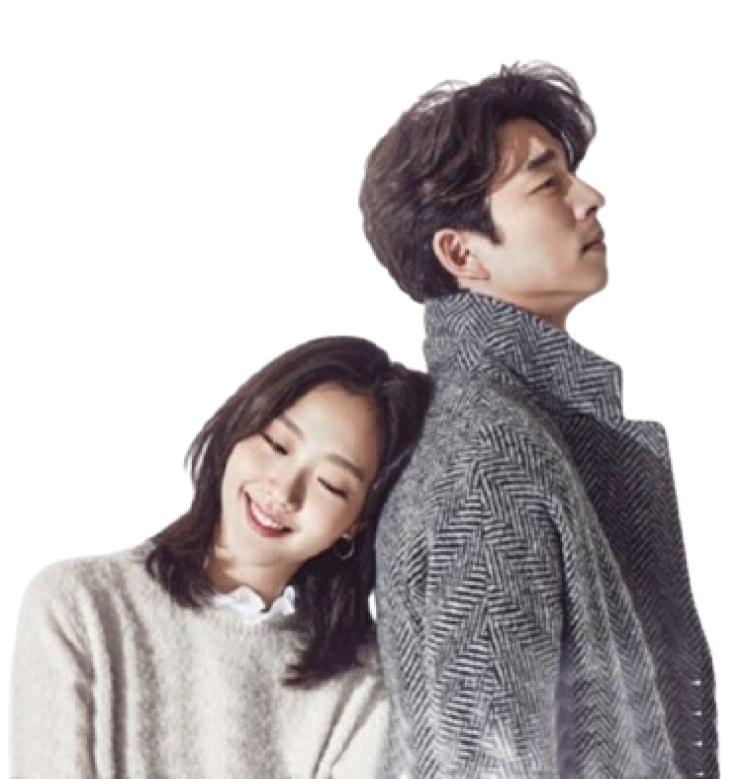
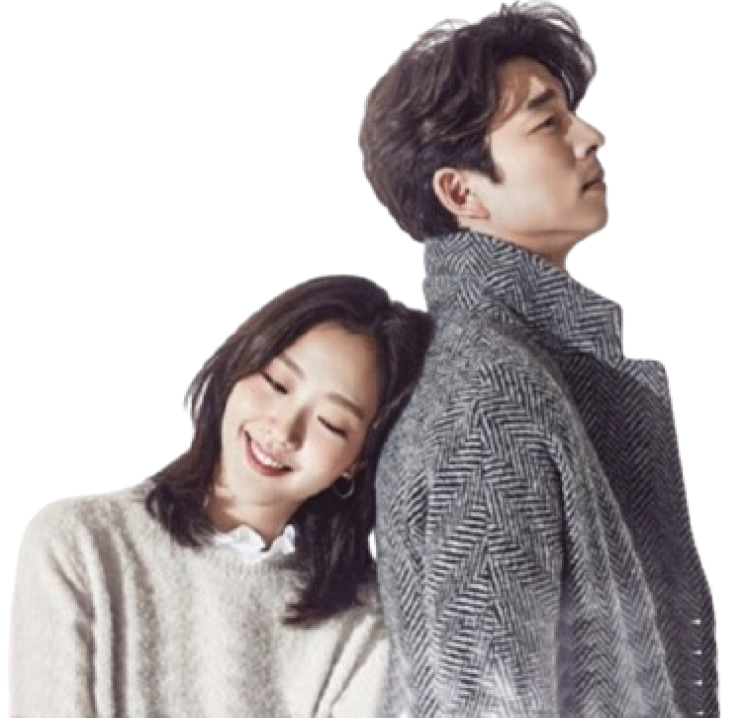
Add files via upload

Changed region(s): [[0.031, 0.0, 0.9609, 0.9805], [0.9299, 0.9499, 0.9609, 0.9805], [0.434, 0.766, 0.465, 0.7967]]

diff --git a/style-goblin.css b/style-goblin.css
@@ -79,7 +79,7 @@
 .container {
     position: relative;
     display: flex;
-    height: auto;
+    height: 100vh;
 }
 
 .title-page {
@@ -93,7 +93,6 @@
     position: absolute;
     left: 0;
     top: 0;
-
 }
 
 .title-page h1 {
@@ -124,7 +123,7 @@
 }
 
 .title-page button:hover {
-    background-color: #5a6268;
+    background-color: #fdfeff;
 }
 
 
@@ -176,7 +175,7 @@
     width: 40%;
     text-align: justify;
     position: absolute;
-    top: 300px;
+    top: 270px;
     left: 70%;
     transform: translateX(-50%);
     font-size: 1.75rem;
@@ -188,84 +187,9 @@
 }
 
 .button-container {
-    position: absolute;
-    right: 20px;
+    position: absolute; 
+    right: 20px; 
     bottom: 20px;
-    display: flex;
-    gap: 10px;
-}
-
-/* Media Queries for Responsiveness */
-@media (max-width: 1200px) {
-    .title-page {
-        width: 100%;
-        /* Full width on smaller screens */
-    }
-
-    .homepage-picture {
-        width: 100%;
-        /* Full width on smaller screens */
-    }
-
-    .wall-img,
-    .text-content {
-        width: 100%;
-        /* Full width on smaller screens */
-        position: relative;
-        /* Reset positioning */
-    }
-
-    .text-content {
-        font-size: 1.5rem;
-        /* Adjust font size */
-    }
-}
-
-@media (max-width: 768px) {
-    .title-page {
-        width: 100%;
-        /* Full width on small screens */
-        align-items: center;
-        /* Center text horizontally */
-        padding: 10px;
-        /* Add padding for smaller screens */
-    }
-
-    .homepage-picture {
-        width: 100%;
-        /* Full width on small screens */
-    }
-
-    .wall-img,
-    .text-content {
-        width: 100%;
-        /* Full width on small screens */
-        position: relative;
-        /* Reset positioning */
-    }
-
-    .title-page h1,
-    .title-page h2 {
-        font-size: 30px;
-        /* Smaller font size */
-    }
-
-    .text-content {
-        font-size: 1.25rem;
-        /* Smaller font size */
-    }
-
-    .button-container {
-        flex-direction: column;
-        /* Stack buttons vertically */
-        align-items: flex-end;
-        /* Align buttons to the right */
-    }
-
-    .button-container button {
-        width: 100%;
-        /* Make buttons full width */
-        margin-bottom: 10px;
-        /* Add margin between buttons */
-    }
+    display: flex; 
+    gap: 10px; 
 }

diff --git a/goblin.html b/goblin.html
@@ -19,8 +19,8 @@
                 <a class="navbar-logo" href="goblin.html"></a>
 
                 <!-- Toggler button for mobile -->
-                <button class="navbar-toggler" type="button" data-bs-toggle="offcanvas" data-bs-target="#offcanvasNavbar"
-                    aria-controls="offcanvasNavbar" aria-label="Toggle navigation">
+                <button class="navbar-toggler" type="button" data-bs-toggle="offcanvas"
+                    data-bs-target="#offcanvasNavbar" aria-controls="offcanvasNavbar" aria-label="Toggle navigation">
                     <span class="navbar-toggler-icon"></span>
                 </button>
 
@@ -45,24 +45,28 @@
             </div>
         </nav>
 
-        <div class="container mt-5 pt-5">
-            <div class="title-page text-center">
+        <div class="container">
+            <div class="title-page">
                 <h1>Goblin:</h1>
                 <h2>Filming Locations</h2>
-                <a href="goblin1.html"> 
+                <a href="goblin1.html">
                     <button type="button" class="btn btn-primary">Learn More</button>
                 </a>
+
             </div>
-        
-            <div class="homepage-picture text-center">
-                <img src="pictures-goblin/hp.png" alt="homepage picture" class="img-fluid">
+
+            <div class="homepage-picture">
+                <img src="pictures-goblin/hp.png" alt="homepage-picture">
             </div>
         </div>
+
+    </div>
     </div>
 
     <!-- Bootstrap JS -->
     <script src="https://cdn.jsdelivr.net/npm/bootstrap@5.3.3/dist/js/bootstrap.bundle.min.js"
-        integrity="sha384-V0ERo2xDmFw5DtO/axLhN+E0FSCzHTWqxS5dE0SddQaAdglKeAxr6P8yL2JW4x0B" crossorigin="anonymous"></script>
+        integrity="sha384-V0ERo2xDmFw5DtO/axLhN+E0FSCzHTWqxS5dE0SddQaAdglKeAxr6P8yL2JW4x0B"
+        crossorigin="anonymous"></script>
 </body>
 
 </html>
